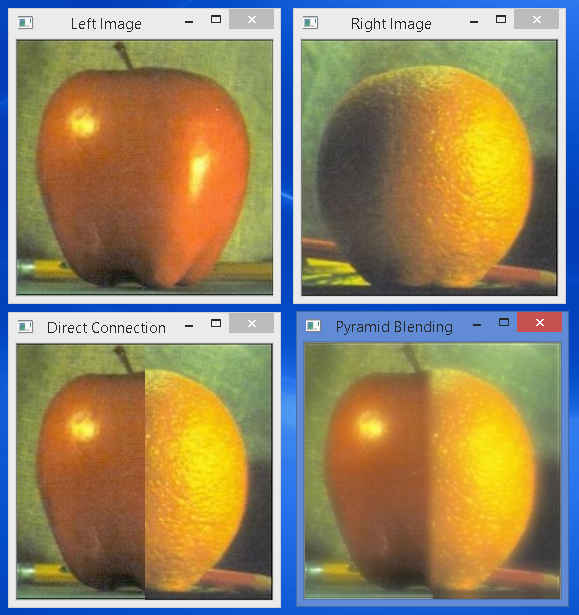
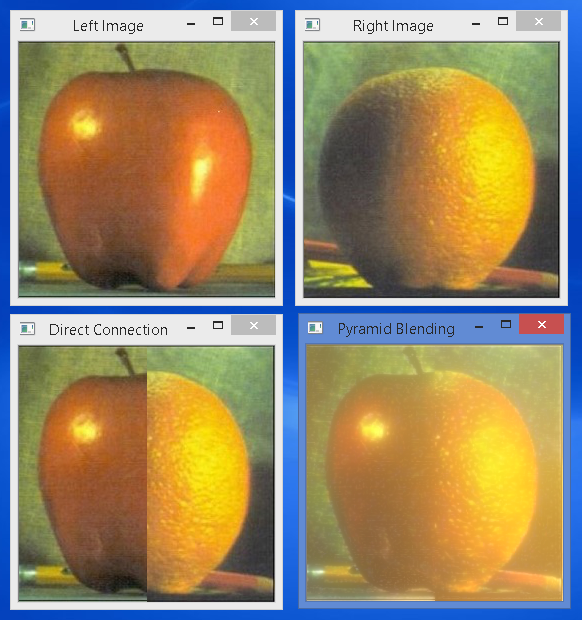
update README

diff --git a/image_processing_in_opencv/image_pyramids/pyramid_image_blending.py b/image_processing_in_opencv/image_pyramids/pyramid_image_blending.py
@@ -18,7 +18,7 @@ import cv2
 import numpy as np
 
 #%% set pyramid level
-n = 3
+n = 6
 
 #%%
 A = cv2.imread('apple.jpg')

diff --git a/image_processing_in_opencv/image_pyramids/README.md b/image_processing_in_opencv/image_pyramids/README.md
@@ -55,15 +55,9 @@ This is the output:
 
 The code `pyramid_image_blending.py` illustrate blending two images (left and right) together, using a combination of Gussian and Laplacian Pyramids.
 
-## The Output
-
-The output produced by the code:
-
-![pyramid_blending.png](./screenshots/pyramid_blending.png)
-
 ## How does the blending process work?
 
-I've compiled the explaination of the blending process by compiling the materials taken from [this page by University of Wisconsin-Madison](http://pages.cs.wisc.edu/~csverma/CS766_09/ImageMosaic/imagemosaic.html) and the [OpenCV-Python Tutorials - Image Pyramids). All credits go to these guys.
+I've compiled the explanation of the blending process by compiling the materials taken from [this page by University of Wisconsin-Madison](http://pages.cs.wisc.edu/~csverma/CS766_09/ImageMosaic/imagemosaic.html) and the [OpenCV-Python Tutorials - Image Pyramids). All credits go to these guys.
 
 ---
 
@@ -78,6 +72,12 @@ After generating Laplacian pyramids for the overlap images A and B, we combine t
 ![pyramid_steps_3.jpg](./screenshots/pyramid_steps_3.jpg)
 
 Afterward, we expand the LS from the top level (N) to the next level (N-1) and add it to the original Laplacian image in the corresponding layer to generate the latest Laplacian image in the corresponding layer. We repeat this step until reaching ground level and the final result will be the blending image
+
+## The Output
+
+The output produced by the code (with N set to 6):
+
+![pyramid_blending.png](./screenshots/pyramid_blending.png)
 
 ---
 
